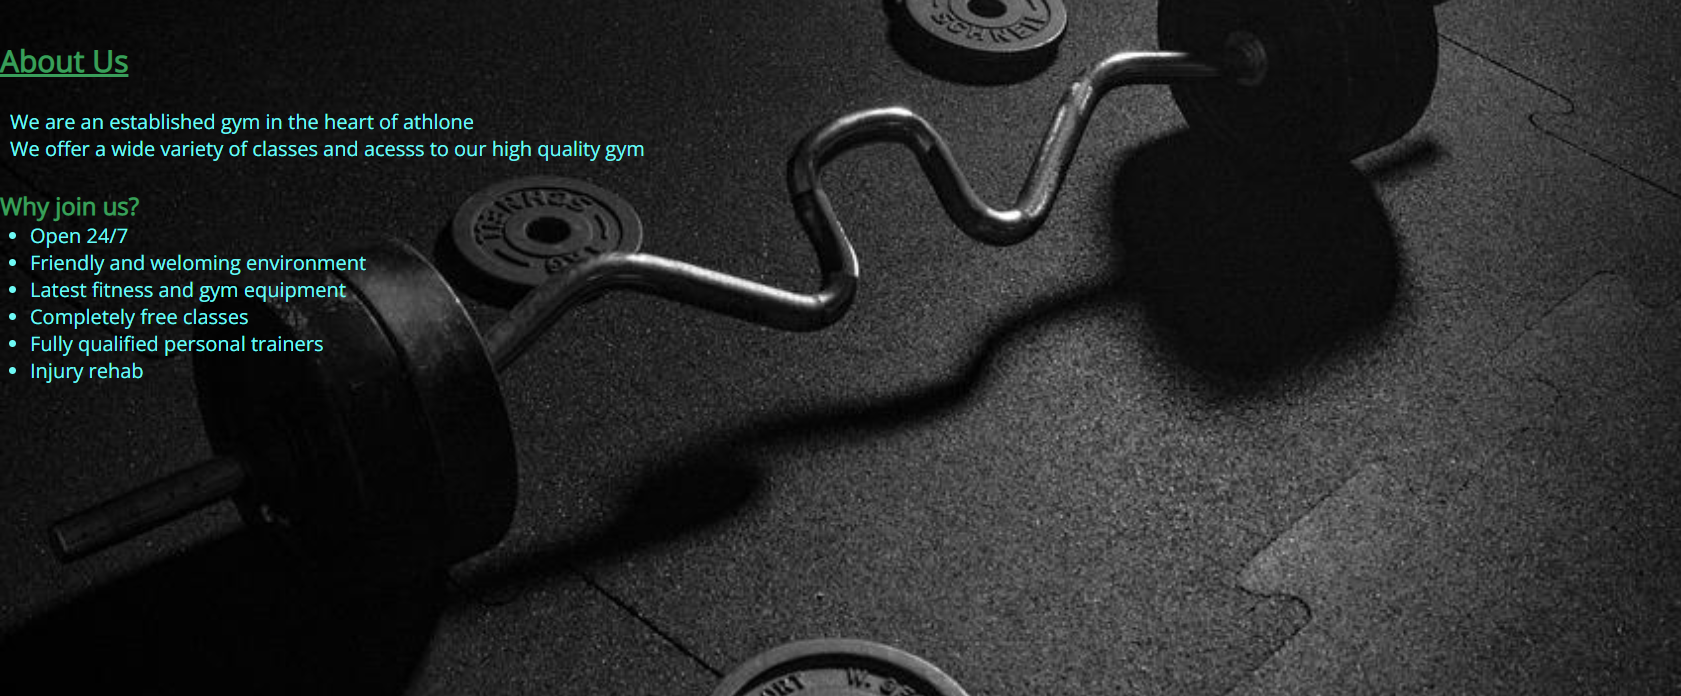
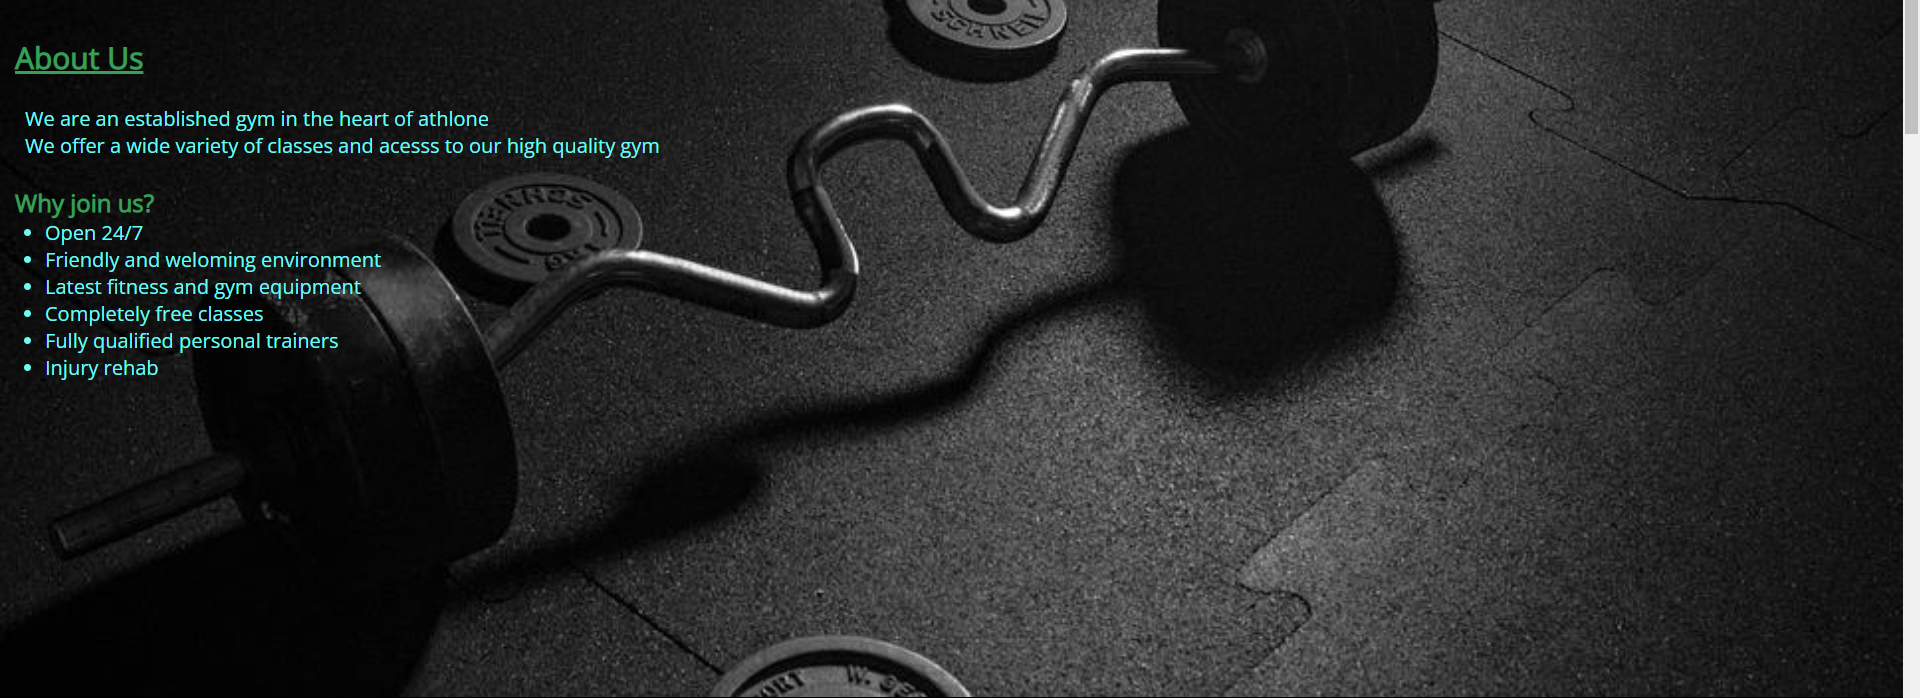
made style adjustments

diff --git a/index.html b/index.html
@@ -198,10 +198,10 @@
             <br>
             
             <ul id ="sm-list">
-                <li><a href="https://www.instagram.com" target="_blank">Instagram <i class="fa-brands fa-instagram"></i></a></li>
-                <li><a href="https://www.facebook.com" target="_blank">Facebook <i class="fa-brands fa-facebook"></i></a></li>
-                <li><a href="https://twitter.com" target="_blank">Twitter <i class="fa-brands fa-twitter"></i></a></li>
-                <li><a href ="https://www.snapchat.com" target="_blank">Snapchat <i class="fa-brands fa-snapchat"></i></a></li>
+                <li><a href="https://www.instagram.com" target="_blank"><i class="fa-brands fa-instagram"></i></a></li>
+                <li><a href="https://www.facebook.com" target="_blank"><i class="fa-brands fa-facebook"></i></a></li>
+                <li><a href="https://twitter.com" target="_blank"><i class="fa-brands fa-twitter"></i></a></li>
+                <li><a href ="https://www.snapchat.com" target="_blank"><i class="fa-brands fa-snapchat"></i></a></li>
             </ul>
         </div>
 

diff --git a/assets/css/style.css b/assets/css/style.css
@@ -13,7 +13,7 @@ body {
     background-color: #5ABCB9;
    
 }
-#home h1 {
+#home h1 { 
     font-size: 50px
     
 }
@@ -29,6 +29,7 @@ body {
     text-align: center;
     padding-top:20px; 
     list-style:circle;
+    padding-bottom: 15px;
 }
 
 #menu li {
@@ -52,6 +53,7 @@ body {
     height:700px;
     background: url(../images/tread.jpg) no-repeat center center;
     background-size: cover;
+    padding-left: 15px;
 }
 #about h2 {
     margin-right:10px;
@@ -272,7 +274,7 @@ body {
 
 #sm-list a{
     color:black;
-    font-size: 110%;
+    font-size: 150%;
 }
 
 #sm-list a i {
@@ -528,7 +530,7 @@ body {
 
         #sm-list a{
             color:black;
-            font-size: 85%;
+            font-size: 30px;
         }
 
         #map-iframe {

diff --git a/README.md b/README.md
@@ -13,7 +13,7 @@ It contains information about the gym such as the services and classes it provid
 
 - This section includes the main heading and navagation bar. The navagation bar includes links to four different sections of the website. When the user hovers over one link, the background color changes to show that it is being targeted.
 
-![Header Image](assets/images/header.jpg)
+![Header Image](assets/images/heading.jpg)
 
 
 ### About section
